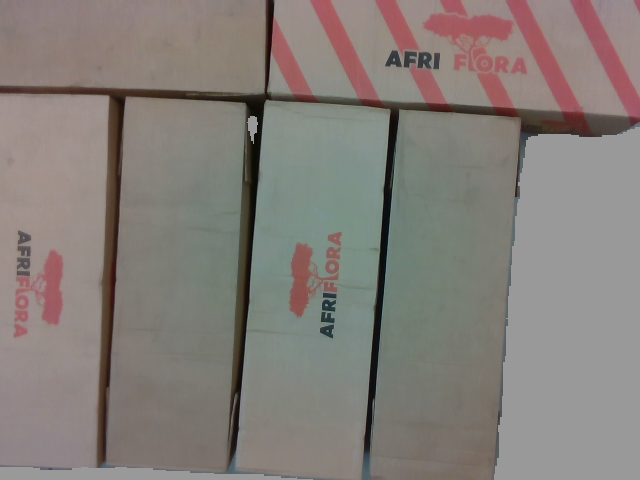
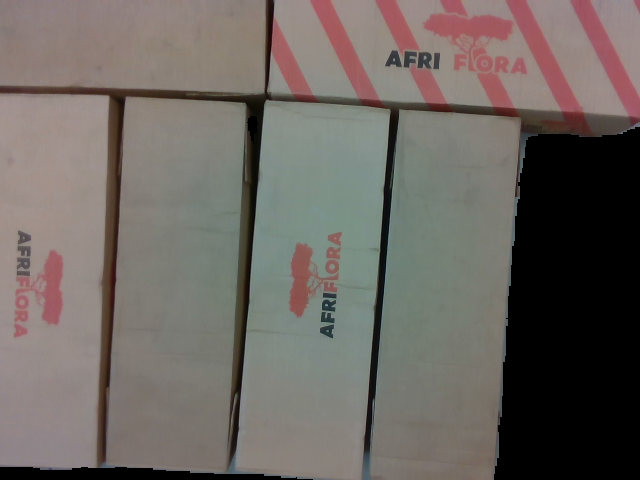
box recognition is reliable

Changed region(s): [[0.75, 0.25, 1.0, 1.0], [0.0, 0.9688, 0.4688, 1.0], [0.375, 0.25, 0.4062, 0.2812]]

diff --git a/IntelRealsence/main.py b/IntelRealsence/main.py
@@ -1,19 +1,23 @@
-## License: Apache 2.0. See LICENSE file in root directory.
-## Copyright(c) 2015-2017 Intel Corporation. All Rights Reserved.
+#############################################
+### autor: Lars Hartman                   ###
+#############################################
 
-###############################################
-##      Open CV and Numpy integration        ##
-###############################################
-
+from math import sin, cos, radians
+from time import sleep
 import pyrealsense2 as rs
 import numpy as np
 import cv2 as cv
+import imutils
+
+cnts = None
+
+framesize = {'width':1280, 'height': 720}
 
 # Configure depth and color streams
 pipeline = rs.pipeline()
 config = rs.config()
 
-videocapture = cv.VideoWriter("ContourDetected.avi",  cv.VideoWriter_fourcc('M','J','P','G'), 30, (1280,960))
+# videocapture = cv.VideoWriter("ContourDetected.avi",  cv.VideoWriter_fourcc('M','J','P','G'), 30, (1280,960))
 
 # Get device product line for setting a supporting resolution
 pipeline_wrapper = rs.pipeline_wrapper(pipeline)
@@ -30,12 +34,12 @@ if not found_rgb:
     print("The demo requires Depth camera with Color sensor")
     exit(0)
 
-config.enable_stream(rs.stream.depth, 640, 480, rs.format.z16, 30)
+config.enable_stream(rs.stream.depth, framesize["width"], framesize["height"], rs.format.z16, 30)
 
 if device_product_line == 'L500':
     config.enable_stream(rs.stream.color, 960, 540, rs.format.bgr8, 30)
 else:
-    config.enable_stream(rs.stream.color, 640, 480, rs.format.bgr8, 30)
+    config.enable_stream(rs.stream.color, framesize["width"], framesize["height"], rs.format.bgr8, 30)
 
 # Start streaming
 profile = pipeline.start(config)
@@ -44,52 +48,17 @@ depthSensor = profile.get_device().first_depth_sensor()
 depthScale  = depthSensor.get_depth_scale()
 print(f"Depth Scale is: {depthScale}")
 
-maxDistMeters = 1.65 #[m]
+maxDistMeters = 1.63 #[m]
 maxDist = maxDistMeters / depthScale
 
 align_to = rs.stream.color
 align = rs.align(align_to)
 
+i = 0
+cv.namedWindow('RealSense', cv.WINDOW_AUTOSIZE)
+
 try:
     while True:
-
-        # Wait for a coherent pair of frames: depth and color
-        frames = pipeline.wait_for_frames()
-
-        aligned_frames = align.process(frames)
-
-        alignedDepthFrame = aligned_frames.get_depth_frame()
-        color_frame = aligned_frames.get_color_frame()
-
-        if not alignedDepthFrame or not color_frame:
-            continue
-
-        depthImage = np.asanyarray(alignedDepthFrame.get_data())
-        colorImage = np.asanyarray(color_frame.get_data())
-
-        gray_color = 0
-        white_color = 0
-        depthImage3D = np.dstack((depthImage,depthImage,depthImage))
-        bgRemoved = np.where((depthImage3D > maxDist) | (depthImage3D <= 0), gray_color, colorImage)
-
-        depthColormap = cv.applyColorMap(cv.convertScaleAbs(depthImage, alpha=0.03), cv.COLORMAP_JET)
-
-        # Show images
-        cv.namedWindow('RealSense', cv.WINDOW_AUTOSIZE)
-
-        # cv.imshow('RealSense', bgRemoved)
-
-        gray = cv.cvtColor(bgRemoved, cv.COLOR_BGR2GRAY)
-        horizontal1 = np.hstack((bgRemoved,np.dstack((gray,gray,gray))))
-        _, bw = cv.threshold(gray, 105, 255, cv.THRESH_BINARY)
-        contours, _ = cv.findContours(bw, cv.RETR_TREE, cv.CHAIN_APPROX_NONE)
-
-        cv.drawContours(bgRemoved, contours, -1, (0,255,0), 2, cv.LINE_AA)
-        horizontal2 = np.hstack((np.dstack((bw,bw,bw)), bgRemoved))
-        images = np.vstack((horizontal1,horizontal2))
-        
-        cv.imshow('RealSense', images)
-        videocapture.write(images)
 
         k = cv.waitKey(1)
 
@@ -97,9 +66,82 @@ try:
             break
         elif k == ord('s'):
             cv.imwrite("boxes.png",bgRemoved)
+        elif k == 32 :
+            
+
+            i = i+1
+            
+            # Wait for a coherent pair of frames: depth and color
+            frames = pipeline.wait_for_frames()
+
+            aligned_frames = align.process(frames)
+
+            alignedDepthFrame = aligned_frames.get_depth_frame()
+            color_frame = aligned_frames.get_color_frame()
+
+            if not alignedDepthFrame or not color_frame:
+                continue
+
+            depthImage = np.asanyarray(alignedDepthFrame.get_data())
+            colorImage = np.asanyarray(color_frame.get_data())
+
+            gray_color = 0
+            depthImage3D = np.dstack((depthImage,depthImage,depthImage))
+            bgRemoved = np.where((depthImage3D > maxDist) | (depthImage3D <= 0), gray_color, colorImage)
+
+            depthColormap = cv.applyColorMap(cv.convertScaleAbs(depthImage, alpha=0.03), cv.COLORMAP_JET)
+            horizontal1 = np.hstack((depthColormap,colorImage, bgRemoved))
+            # Show images
+            
+
+            # cv.imshow('RealSense', bgRemoved)
+
+            gray = cv.cvtColor(bgRemoved, cv.COLOR_BGR2GRAY)
+            gray = cv.GaussianBlur(gray, (5,5), 0)
+            _, bw = cv.threshold(gray, 96, 255, cv.THRESH_BINARY)
+            contours = cv.findContours(bw, cv.RETR_EXTERNAL, cv.CHAIN_APPROX_SIMPLE)
+            contours = imutils.grab_contours(contours)
+            for cont in contours:
+                try:
+            
+                    M = cv.moments(cont)
+                    cX = int(M["m10"] / M["m00"])
+                    cY = int(M["m01"] / M["m00"])
+
+                    rect = cv.minAreaRect(cont)
+                    box = cv.boxPoints(rect)
+                    box = np.int0(box)
+
+                    length, width = max(rect[1]), min(rect[1])
+                    area = M["m00"]
+
+                    angle = rect[-1]
+
+                    if rect[1][0] < rect[1][1]:
+                        angle = angle 
+                    else:
+                        angle = angle + 90
+
+                    if area >= 40000:
+                        cv.drawContours(colorImage, [box], -1, (255,255,255), 2)
+                        cv.circle(colorImage, (cX,cY), 7, (255,255,255), -1)
+                        cv.putText(colorImage, f"CENTER:", (cX-20,cY+20),cv.FONT_HERSHEY_SIMPLEX, 0.5, (255,255,255),2)
+                        cv.putText(colorImage, f"({cX}, {cY})", (cX-20,cY+40),cv.FONT_HERSHEY_SIMPLEX, 0.5, (255,255,255),2)
+                        cv.putText(colorImage, f"({format(angle, '.2f')})", (cX-20,cY+60),cv.FONT_HERSHEY_SIMPLEX, 0.5, (255,255,255),2)
+
+                        lenArrow = 100
+                        cv.arrowedLine(colorImage, (cX,cY), (int(cX + lenArrow*cos(radians(angle-90))), int(cY + lenArrow*sin(radians(angle-90)))), (255,255,255), 2)
+
+                except:
+                    cv.drawContours(colorImage,[cont],-1,(0,0,255), 2)
+
+            horizontal2 = np.hstack((np.dstack((gray,gray,gray)),np.dstack((bw,bw,bw)), colorImage))
+            images = np.vstack((horizontal1,horizontal2))
+            
+            cv.imshow('RealSense', colorImage)
+            # videocapture.write(images)
 
 finally:
-    print(images.shape)
     # Stop streaming
     cv.destroyAllWindows()
     pipeline.stop()

diff --git a/IntelRealsence/imagecontrol.py b/IntelRealsence/imagecontrol.py
@@ -1,22 +1,66 @@
 import cv2 as cv
 import numpy as np
+import imutils
 import time
 
+def click_event(event, x, y, flags, params):
+    if event == cv.EVENT_LBUTTONDOWN:
+
+        cv.putText(boxes, f"{x}, {y}", (x,y), cv.FONT_HERSHEY_SIMPLEX,1,(255,255,255))
+        cv.imshow('out', boxes)
+
+
 boxes = cv.imread("boxes.png")
-cv.imshow('boxes',  boxes)
+# cv.imshow('boxes',  boxes)
 
 gray = cv.cvtColor(boxes, cv.COLOR_BGR2GRAY)
 
-_, bw = cv.threshold(gray, 105, 255, cv.THRESH_BINARY_INV)
-
-contrours, hierarchy = cv.findContours(bw, cv.RETR_TREE, cv.CHAIN_APPROX_NONE)
-
-cv.drawContours(boxes, contrours, -1,(255,0,0), 2,cv.LINE_AA )
+_,bw = cv.threshold(gray, 105, 255, cv.THRESH_BINARY)
 
 
-cv.imshow('gray',   gray )
-cv.imshow('bw',     bw   )
+contours = cv.findContours(bw, cv.RETR_EXTERNAL, cv.CHAIN_APPROX_SIMPLE)
+contours = imutils.grab_contours(contours)
+
+check = boxes.copy()
+cv.drawContours(check, contours, -1,(255,0,0), 2,cv.LINE_AA)
+cv.imshow("check", check)
+
+for c in contours:
+    try:
+        M = cv.moments(c)
+        cX = int(M["m10"] / M["m00"])
+        cY = int(M["m01"] / M["m00"])
+        
+
+        rect = cv.minAreaRect(c)
+        box = cv.boxPoints(rect)
+        box = np.int0(box)
+
+        length, width = max(rect[1]), min(rect[1])
+        area = length * width
+
+        print(f"{area} v.s. {M['m00']}")
+
+        angle = rect[-1]
+
+        if length >= 260 and width >= 93:
+            cv.drawContours(boxes, [box], -1,(255,0,0), 2,cv.LINE_AA)
+            cv.circle(boxes,(cX,cY), 7, (255,255,255), -1)
+            cv.putText(boxes, "CENTER", (cX-20, cY+20), cv.FONT_HERSHEY_SIMPLEX, 0.5, (255,255,255),2)
+            cv.putText(boxes, f"{format(angle, '.2f')}", (cX-20, cY+40), cv.FONT_HERSHEY_SIMPLEX, 0.5, (255,255,255),2)
+
+    except:
+        cv.drawContours(boxes, [c], -1,(0,0,255), 2,cv.LINE_AA )
+
+
+
+
+
+# cv.imshow('gray',   gray )
+# cv.imshow('bw',     bw   )
 cv.imshow('out',    boxes)
+
+cv.setMouseCallback('out',click_event)
 
 
 
